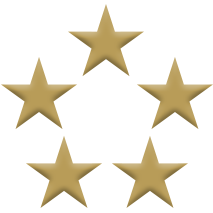
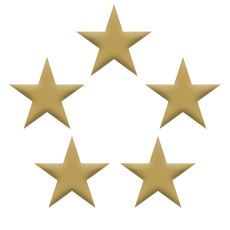
Added cool fade animation

Changed region(s): [[0.0, 0.2535, 0.4789, 0.9859], [0.507, 0.2535, 1.0, 0.9859], [0.3099, 0.0282, 0.6761, 0.3662]]

diff --git a/js/fade-in-onscroll.js b/js/fade-in-onscroll.js
@@ -1,0 +1,31 @@
+$(function() { // $(document).ready shorthand
+	showIfInView();
+	console.log("Start");
+});
+
+var showIfInView = function() {
+	/* Check the location of each desired element */
+	console.log("Updating");
+	$('.card').each(function(i) {
+		console.log("found card");
+		var bottom_of_object = $(this).position().top;
+		var top_of_object = $(this).position().top;
+		var bottom_of_window = $(window).scrollTop() + $(window).height();
+
+		/* If the object is completely visible in the window, fade it it */
+		if (bottom_of_window > bottom_of_object) {
+			$(this).removeClass('fade-out');
+			$(this).addClass('fade-in');
+
+		} else if (bottom_of_window < top_of_object) {
+			$(this).removeClass('fade-in');
+			$(this).addClass('fade-out');
+		}
+	});
+};
+$(document).ready(function() {
+
+	/* Every time the window is scrolled ... */
+	$(window).scroll(showIfInView);
+
+});

diff --git a/css/less/cards.less b/css/less/cards.less
@@ -45,6 +45,18 @@
     width: 100%;
 }
 
+.fade-in {
+    opacity: 1;
+    transform: scale(1,1) translate(0,0);
+    transition: transform 1.2s, opacity 0.75s;
+}
+
+.fade-out {
+    opacity: 0;
+    transform: scale(.75, .75) translate(0,50%);
+    transition: transform 1.2s, opacity 0.75s;
+}
+
 .card .line {
     position: absolute;
     top: 50%;
@@ -58,7 +70,7 @@
     width: 10%;
     padding-top: 10%;
     background-repeat: no-repeat;
-    background-size: 100%;
+    background-size: 85%;
     box-shadow: 0 0 1px 2px #584D38;
     border-radius: 50%;
     display: inline-block;

diff --git a/css/cards.css b/css/cards.css
@@ -37,6 +37,16 @@
   z-index: 10;
   width: 100%;
 }
+.fade-in {
+  opacity: 1;
+  transform: scale(1, 1) translate(0, 0);
+  transition: transform 1.2s, opacity 0.75s;
+}
+.fade-out {
+  opacity: 0;
+  transform: scale(0.75, 0.75) translate(0, 50%);
+  transition: transform 1.2s, opacity 0.75s;
+}
 .card .line {
   position: absolute;
   top: 50%;
@@ -49,7 +59,7 @@
   width: 10%;
   padding-top: 10%;
   background-repeat: no-repeat;
-  background-size: 100%;
+  background-size: 85%;
   box-shadow: 0 0 1px 2px #584D38;
   border-radius: 50%;
   display: inline-block;

diff --git a/index.html b/index.html
@@ -552,5 +552,7 @@
         type="text/javascript"></script>
 <script src="js/scroll.js"
         type="text/javascript"></script>
+<script src="js/fade-in-onscroll.js"
+        type="text/javascript"></script>
 
 </html>
